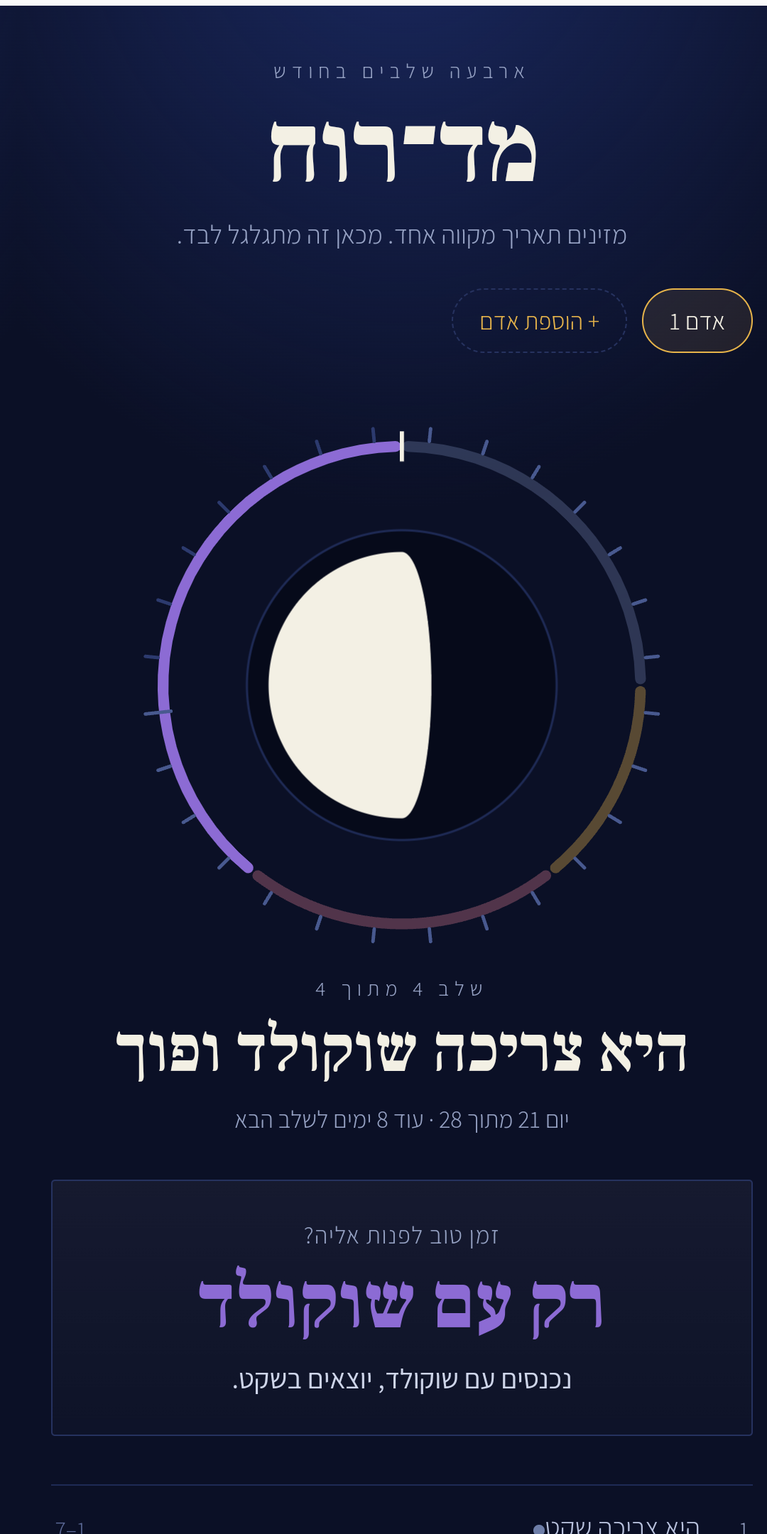
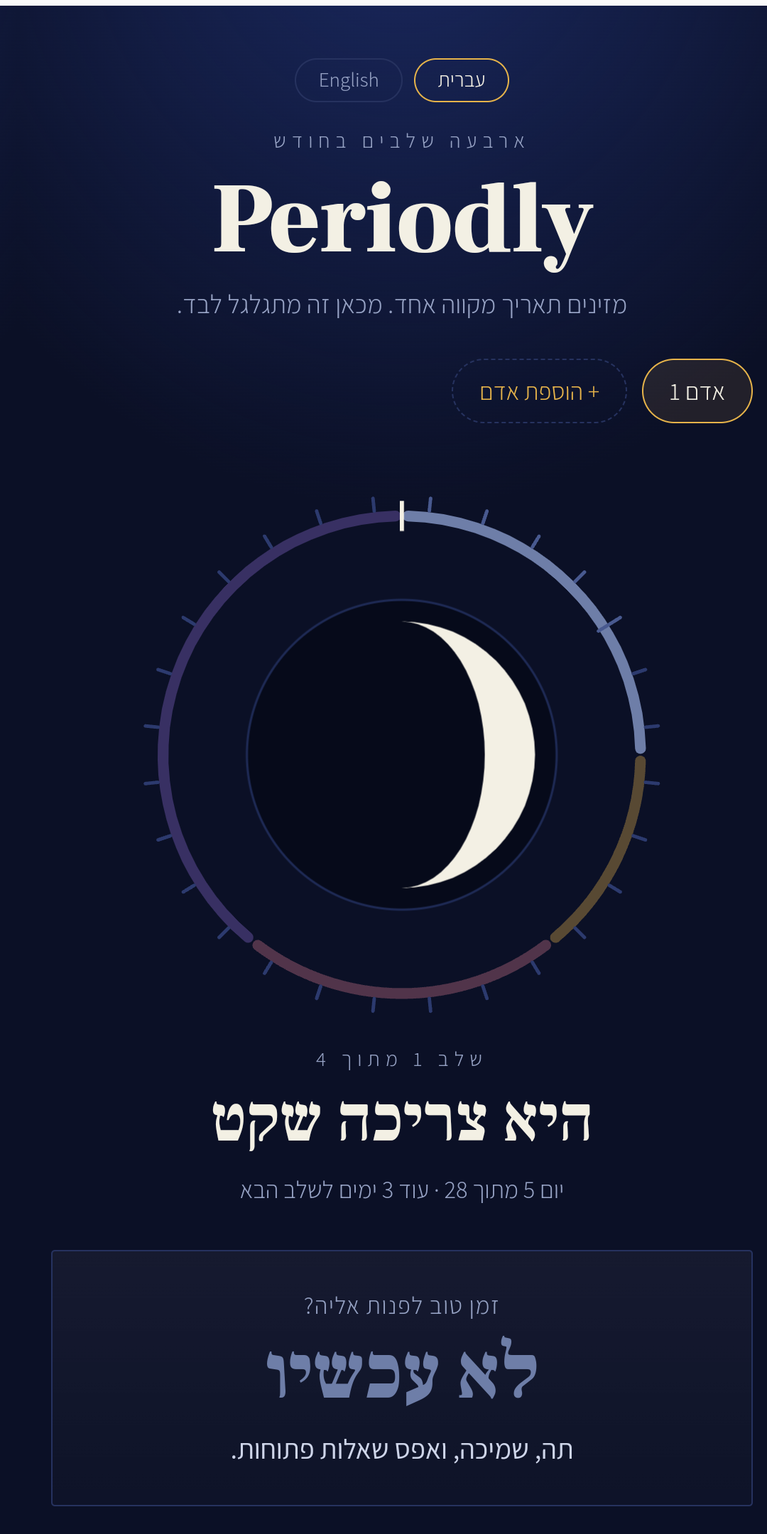
Rename app to Periodly, add Hebrew/English language toggle
Renamed across every source location (index.html title/meta/h1,
manifest.webmanifest, native capacitor.config.json, Android
strings.xml, iOS Info.plist, README, privacy.html, store listing) —
checked for every occurrence across the repo rather than assuming
which files mattered, then grepped again afterward to confirm none
were missed.

Added a full Hebrew/English UI toggle: a T[] translation dictionary
covering every user-facing string, PHASES_I18N with hand-written
(not literal) English versions of the four humor-based phase
descriptions, dynamic document dir/lang switching (rtl/ltr), and
db.lang persisted alongside the rest of the app state. The four
phase names/verdicts/tips were translated to preserve the joke, not
word-for-word.

Verified in Playwright: both languages render correctly, dir flips
to ltr with no leftover RTL artifacts (checked visually via
screenshot, not just DOM text), language choice persists across
reload, and the calendar readout recomputes correctly in the new
language instead of staying stale. Then repeated the language-switch
and rename checks against the actual native Android WebView via
direct CDP injection. Re-ran the full existing regression suite
(subscription slots, locking, XSS fix) to confirm nothing broke.

Regenerated the feature graphic (rendered through a headless browser
with the app's real fonts, not approximated) and all three store
screenshots from the actual signed release build showing the new
[…]

diff --git a/index.html b/index.html
@@ -3,14 +3,14 @@
 <head>
 <meta charset="utf-8">
 <meta name="viewport" content="width=device-width, initial-scale=1, viewport-fit=cover, maximum-scale=1">
-<title>מד־רוח</title>
+<title>Periodly</title>
 <meta name="theme-color" content="#0B1026">
 <meta name="description" content="ארבעה שלבים בחודש. שלב אחד עכשיו.">
 <link rel="manifest" href="manifest.webmanifest">
 <meta name="mobile-web-app-capable" content="yes">
 <meta name="apple-mobile-web-app-capable" content="yes">
 <meta name="apple-mobile-web-app-status-bar-style" content="black-translucent">
-<meta name="apple-mobile-web-app-title" content="מד־רוח">
+<meta name="apple-mobile-web-app-title" content="Periodly">
 <link rel="apple-touch-icon" href="icon-192.png">
 <link rel="icon" href="icon-192.png">
 <style>
@@ -45,6 +45,14 @@ body{
   padding-inline:18px;
 }
 .app{width:100%;max-width:440px}
+
+/* language switch */
+.langsw{display:flex;justify-content:center;gap:6px;margin-bottom:14px}
+.langsw button{
+  all:unset;padding:4px 12px;border:1px solid #26325F;border-radius:100px;
+  font-family:'Assistant',sans-serif;font-size:11px;color:var(--silver);cursor:pointer;
+}
+.langsw button.active{border-color:var(--amber);color:var(--moon)}
 
 /* header */
 .eyebrow{
@@ -213,9 +221,13 @@ footer{margin-top:22px;text-align:center;font-size:12px;color:#4E5C89;line-heigh
 </head>
 <body>
 <div class="app">
-  <div class="eyebrow">ארבעה שלבים בחודש</div>
-  <h1>מד־רוח</h1>
-  <p class="sub">מזינים תאריך מקווה אחד. מכאן זה מתגלגל לבד.</p>
+  <div class="langsw" id="langsw">
+    <button data-lang="he">עברית</button>
+    <button data-lang="en">English</button>
+  </div>
+  <div class="eyebrow" id="t-eyebrow">ארבעה שלבים בחודש</div>
+  <h1>Periodly</h1>
+  <p class="sub" id="t-sub">מזינים תאריך מקווה אחד. מכאן זה מתגלגל לבד.</p>
 
   <div class="profiles" id="profiles"></div>
 
@@ -236,7 +248,7 @@ footer{margin-top:22px;text-align:center;font-size:12px;color:#4E5C89;line-heigh
   </div>
 
   <div class="verdict fade">
-    <div class="q">זמן טוב לפנות אליה?</div>
+    <div class="q" id="t-verdictQ">זמן טוב לפנות אליה?</div>
     <div class="a" id="verdict"></div>
     <div class="tip" id="tip"></div>
   </div>
@@ -244,8 +256,8 @@ footer{margin-top:22px;text-align:center;font-size:12px;color:#4E5C89;line-heigh
   <div class="list" id="list"></div>
 
   <div class="calhead">
-    <h2>תחזית</h2>
-    <span>מהחודש הזה והלאה</span>
+    <h2 id="t-forecast">תחזית</h2>
+    <span id="t-forecastSub">מהחודש הזה והלאה</span>
   </div>
   <div class="readout" id="readout">בחרו יום בלוח כדי לראות מה צפוי בו.</div>
   <div id="calendar"></div>
@@ -254,26 +266,26 @@ footer{margin-top:22px;text-align:center;font-size:12px;color:#4E5C89;line-heigh
   <div class="legend" id="legend"></div>
 
   <details>
-    <summary>הגדרות</summary>
+    <summary id="t-settings">הגדרות</summary>
     <div class="panel">
-      <label for="pname">שם (אופציונלי)</label>
+      <label for="pname" id="t-nameLabel">שם (אופציונלי)</label>
       <input type="text" id="pname" placeholder="אדם 1" maxlength="20">
-      <label for="mikveh">תאריך המקווה האחרון</label>
+      <label for="mikveh" id="t-mikvehLabel">תאריך המקווה האחרון</label>
       <input type="date" id="mikveh">
-      <label for="len">אורך מחזור (ימים)</label>
+      <label for="len" id="t-lenLabel">אורך מחזור (ימים)</label>
       <input type="number" id="len" min="21" max="40">
-      <p class="hint">החישוב מניח שליל המקווה הוא היום ה־12 למחזור. אם אצלכם זה אחרת, שנו את אורך המחזור והתאריך עד שהשלב שמוצג מרגיש נכון.</p>
+      <p class="hint" id="t-hint">החישוב מניח שליל המקווה הוא היום ה־12 למחזור. אם אצלכם זה אחרת, שנו את אורך המחזור והתאריך עד שהשלב שמוצג מרגיש נכון.</p>
       <button class="danger" id="delProfile" hidden>מחיקת הפרופיל הזה</button>
     </div>
   </details>
 
-  <footer>נכתב בהומור, לא בהלכה ולא ברפואה.<br>בספק — פשוט תשאלו אותה.</footer>
+  <footer id="t-footer">נכתב בהומור, לא בהלכה ולא ברפואה.<br>בספק — פשוט תשאלו אותה.</footer>
 </div>
 
 <div class="overlay" id="paywall" hidden>
   <div class="modalcard">
-    <h3>הוספת אדם נוסף</h3>
-    <p>אדם ראשון חינם. כל אדם נוסף — מנוי חודשי מתחדש אוטומטית, 10 ₪ לחודש, לכל אדם בנפרד. ניתן לבטל בכל עת דרך הגדרות המנויים בחנות.</p>
+    <h3 id="t-paywallTitle">הוספת אדם נוסף</h3>
+    <p id="t-paywallBody">אדם ראשון חינם. כל אדם נוסף — מנוי חודשי מתחדש אוטומטית, 10 ₪ לחודש, לכל אדם בנפרד. ניתן לבטל בכל עת דרך הגדרות המנויים בחנות.</p>
     <button class="cta" id="unlockBtn">הרשמה למנוי — 10 ₪ לחודש</button>
     <button class="ghost" id="restoreBtn" hidden>שחזור רכישות קודמות</button>
     <button class="ghost" id="closePaywall">לא עכשיו</button>
@@ -282,12 +294,73 @@ footer{margin-top:22px;text-align:center;font-size:12px;color:#4E5C89;line-heigh
 </div>
 
 <script>
-const PHASES = [
-  {name:'היא צריכה שקט',      verdict:'לא עכשיו',      tip:'תה, שמיכה, ואפס שאלות פתוחות.',        color:'#6E7EA8'},
-  {name:'היא מבסוטית שיא',    verdict:'כן',            tip:'הזמן לבקש טובות ולתכנן חופשה.',        color:'#E7B44A'},
-  {name:'היא בעניין שלך מאד', verdict:'בהחלט כן',      tip:'תפנה אליה. פשוט תפנה אליה.',           color:'#D2778C'},
-  {name:'היא צריכה שוקולד ופוך', verdict:'רק עם שוקולד', tip:'נכנסים עם שוקולד, יוצאים בשקט.',    color:'#8C6BD4'}
-];
+const PHASES_I18N = {
+  he: [
+    {name:'היא צריכה שקט',         verdict:'לא עכשיו',       tip:'תה, שמיכה, ואפס שאלות פתוחות.'},
+    {name:'היא מבסוטית שיא',       verdict:'כן',             tip:'הזמן לבקש טובות ולתכנן חופשה.'},
+    {name:'היא בעניין שלך מאד',    verdict:'בהחלט כן',       tip:'תפנה אליה. פשוט תפנה אליה.'},
+    {name:'היא צריכה שוקולד ופוך', verdict:'רק עם שוקולד',   tip:'נכנסים עם שוקולד, יוצאים בשקט.'}
+  ],
+  en: [
+    {name:'She needs quiet',              verdict:'Not now',          tip:'Tea, a blanket, and zero open-ended questions.'},
+    {name:'She’s in a great mood',    verdict:'Yes',              tip:'Time to ask for favors and plan a trip.'},
+    {name:'She’s very into you',      verdict:'Absolutely yes',   tip:'Talk to her. Just talk to her.'},
+    {name:'She needs chocolate and comfort', verdict:'Only with chocolate', tip:'Walk in with chocolate, walk out quietly.'}
+  ]
+};
+const PHASE_COLORS = ['#6E7EA8','#E7B44A','#D2778C','#8C6BD4'];
+let PHASES = PHASES_I18N.he.map((p,i) => ({...p, color: PHASE_COLORS[i]}));
+
+const T = {
+  he: {
+    dir:'rtl', dateLocale:'he-IL',
+    eyebrow:'ארבעה שלבים בחודש', sub:'מזינים תאריך מקווה אחד. מכאן זה מתגלגל לבד.',
+    addPerson:'+ הוספת אדם', person:i=>'אדם ' + i,
+    stageOf:n=>`שלב ${n} מתוך 4`, dayOfLen:(d,l)=>`יום ${d} מתוך ${l}`,
+    stageChangesTomorrow:'השלב מתחלף מחר', daysToNext:n=>`עוד ${n} ימים לשלב הבא`,
+    verdictQ:'זמן טוב לפנות אליה?', forecast:'תחזית', forecastSub:'מהחודש הזה והלאה',
+    readoutPlaceholder:'בחרו יום בלוח כדי לראות מה צפוי בו.', addMonths:'להוסיף עוד 6 חודשים',
+    settings:'הגדרות', nameLabel:'שם (אופציונלי)', mikvehLabel:'תאריך המקווה האחרון',
+    lenLabel:'אורך מחזור (ימים)',
+    hint:'החישוב מניח שליל המקווה הוא היום ה־12 למחזור. אם אצלכם זה אחרת, שנו את אורך המחזור והתאריך עד שהשלב שמוצג מרגיש נכון.',
+    deleteProfile:'מחיקת הפרופיל הזה', footer:'נכתב בהומור, לא בהלכה ולא ברפואה.<br>בספק — פשוט תשאלו אותה.',
+    paywallTitle:'הוספת אדם נוסף',
+    paywallBody:'אדם ראשון חינם. כל אדם נוסף — מנוי חודשי מתחדש אוטומטית, 10 ₪ לחודש, לכל אדם בנפרד. ניתן לבטל בכל עת דרך הגדרות המנויים בחנות.',
+    subscribeBtn:'הרשמה למנוי — 10 ₪ לחודש', restoreBtn:'שחזור רכישות קודמות', notNow:'לא עכשיו',
+    paywallNoteReady:'מנוי חודשי מתחדש אוטומטית, 10 ₪ לחודש לכל אדם נוסף. אפשר לבטל בכל עת דרך הגדרות המנויים בחנות.',
+    paywallNoteTest:'מצב בדיקה: אין עדיין חיבור תשלום אמיתי (יתחבר כשהאפליקציה תיארז לחנויות) — הפתיחה כאן מקומית וללא חיוב.',
+    purchaseFailed:'הרכישה לא הושלמה. ', tryAgain:'נסו שוב מאוחר יותר.',
+    productNotConfigured:'המוצר עדיין לא הוגדר בחנות.', restoreSuccess:'הרכישות שוחזרו.', restoreFailed:'שחזור הרכישות נכשל.',
+    confirmDelete:'למחוק את הפרופיל הזה?',
+    months:['ינואר','פברואר','מרץ','אפריל','מאי','יוני','יולי','אוגוסט','ספטמבר','אוקטובר','נובמבר','דצמבר'],
+    weekdays:['א','ב','ג','ד','ה','ו','ש'], cycleDayOf:d=>`יום ${d} במחזור`
+  },
+  en: {
+    dir:'ltr', dateLocale:'en-US',
+    eyebrow:'Four stages a month', sub:'Enter one mikveh date. It figures out the rest.',
+    addPerson:'+ Add person', person:i=>'Person ' + i,
+    stageOf:n=>`Stage ${n} of 4`, dayOfLen:(d,l)=>`Day ${d} of ${l}`,
+    stageChangesTomorrow:'Stage changes tomorrow', daysToNext:n=>`${n} days to next stage`,
+    verdictQ:'Good time to reach out to her?', forecast:'Forecast', forecastSub:'From this month onward',
+    readoutPlaceholder:'Pick a day on the calendar to see what it holds.', addMonths:'Add 6 more months',
+    settings:'Settings', nameLabel:'Name (optional)', mikvehLabel:'Last mikveh date',
+    lenLabel:'Cycle length (days)',
+    hint:'The calculation assumes mikveh night is day 12 of the cycle. If yours is different, adjust the cycle length and date until the stage shown feels right.',
+    deleteProfile:'Delete this profile', footer:'Written in humor, not halacha, not medicine.<br>When in doubt — just ask her.',
+    paywallTitle:'Add another person',
+    paywallBody:'First person is free. Each additional person is an auto-renewing monthly subscription, 10 ILS/month, billed separately per person. Cancel anytime through the store’s subscription settings.',
+    subscribeBtn:'Subscribe — 10 ILS/month', restoreBtn:'Restore previous purchases', notNow:'Not now',
+    paywallNoteReady:'Auto-renewing monthly subscription, 10 ILS/month per additional person. Cancel anytime through the store’s subscription settings.',
+    paywallNoteTest:'Test mode: no real payment is wired up yet (comes once the app ships to the stores) — unlocking here is local and free.',
+    purchaseFailed:'The purchase did not go through. ', tryAgain:'Please try again later.',
+    productNotConfigured:'This product is not set up in the store yet.', restoreSuccess:'Purchases restored.', restoreFailed:'Restoring purchases failed.',
+    confirmDelete:'Delete this profile?',
+    months:['January','February','March','April','May','June','July','August','September','October','November','December'],
+    weekdays:['Sun','Mon','Tue','Wed','Thu','Fri','Sat'], cycleDayOf:d=>`day ${d} of cycle`
+  }
+};
+let uiLang = 'he';
+
 const MIKVEH_DAY = 12;
 const FREE_PROFILE_LIMIT = 1;
 
@@ -387,14 +460,14 @@ function render(){
   const idx = day <= b[0] ? 0 : day <= b[1] ? 1 : day <= b[2] ? 2 : 3;
   const p = PHASES[idx];
 
-  $('phaseNum').textContent = `שלב ${idx + 1} מתוך 4`;
+  $('phaseNum').textContent = T[uiLang].stageOf(idx + 1);
   $('phaseName').textContent = p.name;
   $('verdict').textContent = p.verdict;
   $('verdict').style.color = p.color;
   $('tip').textContent = p.tip;
 
   const left = b[idx] - day + 1;
-  $('dayCount').textContent = `יום ${day} מתוך ${L} · ${left === 1 ? 'השלב מתחלף מחר' : 'עוד ' + left + ' ימים לשלב הבא'}`;
+  $('dayCount').textContent = `${T[uiLang].dayOfLen(day, L)} · ${left === 1 ? T[uiLang].stageChangesTomorrow : T[uiLang].daysToNext(left)}`;
 
   // ticks
   const ticks = b_ticks(L, day);
@@ -438,8 +511,6 @@ function b_ticks(L, day){
 }
 
 /* ---------- forecast calendar ---------- */
-const MONTHS = ['ינואר','פברואר','מרץ','אפריל','מאי','יוני','יולי','אוגוסט','ספטמבר','אוקטובר','נובמבר','דצמבר'];
-const WD = ['א','ב','ג','ד','ה','ו','ש'];
 let monthsShown = 12, selected = '';
 
 function cycleStart(){
@@ -468,8 +539,8 @@ function renderCalendar(){
   for (let m = 0; m < monthsShown; m++){
     const d0 = new Date(first.getFullYear(), first.getMonth() + m, 1);
     const dim = new Date(d0.getFullYear(), d0.getMonth() + 1, 0).getDate();
-    html += `<div class="month"><h3>${MONTHS[d0.getMonth()]} ${d0.getFullYear()}</h3>
-      <div class="wd">${WD.map(w => `<span>${w}</span>`).join('')}</div><div class="grid">`;
+    html += `<div class="month"><h3>${T[uiLang].months[d0.getMonth()]} ${d0.getFullYear()}</h3>
+      <div class="wd">${T[uiLang].weekdays.map(w => `<span>${w}</span>`).join('')}</div><div class="grid">`;
     for (let i = 0; i < d0.getDay(); i++) html += '<button class="pad" tabindex="-1"></button>';
     for (let day = 1; day <= dim; day++){
       const dt = new Date(d0.getFullYear(), d0.getMonth(), day);
@@ -488,15 +559,20 @@ function renderCalendar(){
     `<div><i style="background:${rgba(p.color, .55)}"></i>${i + 1}. ${p.name}</div>`).join('');
 }
 
-$('calendar').addEventListener('click', e => {
-  const btn = e.target.closest('button[data-k]');
-  if (!btn) return;
-  selected = btn.dataset.k;
+function renderReadout(){
+  if (!selected){ $('readout').textContent = T[uiLang].readoutPlaceholder; return; }
   const [y, m, d] = selected.split('-').map(Number);
   const dt = new Date(y, m, d);
   const p = PHASES[phaseOf(dt)];
   $('readout').innerHTML =
-    `<b>${dt.toLocaleDateString('he-IL', {weekday:'long', day:'numeric', month:'long'})}</b> · יום ${dayOf(dt)} במחזור · ${p.name} · <b style="color:${p.color}">${p.verdict}</b>`;
+    `<b>${dt.toLocaleDateString(T[uiLang].dateLocale, {weekday:'long', day:'numeric', month:'long'})}</b> · ${T[uiLang].cycleDayOf(dayOf(dt))} · ${p.name} · <b style="color:${p.color}">${p.verdict}</b>`;
+}
+
+$('calendar').addEventListener('click', e => {
+  const btn = e.target.closest('button[data-k]');
+  if (!btn) return;
+  selected = btn.dataset.k;
+  renderReadout();
   renderCalendar();
 });
 
@@ -541,10 +617,46 @@ async function load(){
   }
   if (!db.profiles.find(p => p.id === db.activeId)) db.activeId = db.profiles[0].id;
   enforceActiveWithinAllowed();
+  applyLang(db.lang || 'he');
+}
+
+function applyLang(lang){
+  uiLang = lang;
+  db.lang = lang;
+  PHASES = PHASES_I18N[lang].map((p,i) => ({...p, color: PHASE_COLORS[i]}));
+  document.documentElement.lang = lang;
+  document.documentElement.dir = T[lang].dir;
+  $('t-eyebrow').textContent = T[lang].eyebrow;
+  $('t-sub').textContent = T[lang].sub;
+  $('t-verdictQ').textContent = T[lang].verdictQ;
+  $('t-forecast').textContent = T[lang].forecast;
+  $('t-forecastSub').textContent = T[lang].forecastSub;
+  $('t-settings').textContent = T[lang].settings;
+  $('t-nameLabel').textContent = T[lang].nameLabel;
+  $('t-mikvehLabel').textContent = T[lang].mikvehLabel;
+  $('t-lenLabel').textContent = T[lang].lenLabel;
+  $('t-hint').textContent = T[lang].hint;
+  $('t-footer').innerHTML = T[lang].footer;
+  $('t-paywallTitle').textContent = T[lang].paywallTitle;
+  $('t-paywallBody').textContent = T[lang].paywallBody;
+  $('unlockBtn').textContent = T[lang].subscribeBtn;
+  $('restoreBtn').textContent = T[lang].restoreBtn;
+  $('closePaywall').textContent = T[lang].notNow;
+  $('more').textContent = T[lang].addMonths;
+  $('pname').placeholder = T[lang].person(1);
+  document.querySelectorAll('#langsw button').forEach(b => b.classList.toggle('active', b.dataset.lang === lang));
   renderProfiles();
   syncSettingsForm();
+  renderReadout();
   render();
 }
+
+$('langsw').addEventListener('click', e => {
+  const btn = e.target.closest('button[data-lang]');
+  if (!btn || btn.dataset.lang === uiLang) return;
+  applyLang(btn.dataset.lang);
+  save();
+});
 
 function syncSettingsForm(){
   const p = active();
@@ -557,10 +669,10 @@ function renderProfiles(){
   const allowed = allowedProfiles();
   const pills = db.profiles.map((p,i) => {
     const locked = i >= allowed;
-    const label = escapeHtml(p.name) || 'אדם ' + (i+1);
+    const label = escapeHtml(p.name) || T[uiLang].person(i+1);
     return `<button class="pill ${p.id===db.activeId?'active':''} ${locked?'locked':''}" data-id="${p.id}" ${locked?'data-locked="1"':''}>${locked?'🔒 ':''}${label}</button>`;
   }).join('');
-  const addPill = db.profiles.length < MAX_TOTAL_PROFILES ? `<button class="pill add" id="addProfile">+ הוספת אדם</button>` : '';
+  const addPill = db.profiles.length < MAX_TOTAL_PROFILES ? `<button class="pill add" id="addProfile">${T[uiLang].addPerson}</button>` : '';
   $('profiles').innerHTML = pills + addPill;
   if ($('addProfile')) $('addProfile').addEventListener('click', onAddProfile);
   $('delProfile').hidden = db.profiles.length <= 1;
@@ -596,8 +708,8 @@ function openPaywall(){
   $('unlockBtn').disabled = false;
   $('restoreBtn').hidden = !(isNative() && purchasesReady);
   $('paywallNote').textContent = (isNative() && purchasesReady)
-    ? 'מנוי חודשי מתחדש אוטומטית, 10 ₪ לחודש לכל אדם נוסף. אפשר לבטל בכל עת דרך הגדרות המנויים בחנות.'
-    : 'מצב בדיקה: אין עדיין חיבור תשלום אמיתי (יתחבר כשהאפליקציה תיארז לחנויות) — הפתיחה כאן מקומית וללא חיוב.';
+    ? T[uiLang].paywallNoteReady
+    : T[uiLang].paywallNoteTest;
 }
 
 $('unlockBtn').addEventListener('click', async () => {
@@ -608,13 +720,13 @@ $('unlockBtn').addEventListener('click', async () => {
       const offerings = await Purchases().getOfferings();
       const pkgs = (offerings.current && offerings.current.availablePackages) || [];
       const pkg = pkgs.find(p => p.storeProduct.identifier === productId);
-      if (!pkg) throw new Error('המוצר עדיין לא הוגדר בחנות.');
+      if (!pkg) throw new Error(T[uiLang].productNotConfigured);
       const { customerInfo } = await Purchases().purchasePackage({ aPackage: pkg });
       db.activeSlots = countActiveSlots(customerInfo); save();
       $('paywall').hidden = true;
       addProfileNow();
     } catch(e){
-      if (!(e && e.userCancelled)) alert('הרכישה לא הושלמה. ' + (e && e.message ? e.message : 'נסו שוב מאוחר יותר.'));
+      if (!(e && e.userCancelled)) alert(T[uiLang].purchaseFailed + (e && e.message ? e.message : T[uiLang].tryAgain));
     } finally { $('unlockBtn').disabled = false; }
   } else {
     db.activeSlots = (db.activeSlots || 0) + 1; save();
@@ -627,14 +739,14 @@ $('restoreBtn').addEventListener('click', async () => {
     const { customerInfo } = await Purchases().restorePurchases();
     db.activeSlots = countActiveSlots(customerInfo); save();
     enforceActiveWithinAllowed(); renderProfiles(); syncSettingsForm(); render();
-    alert('הרכישות שוחזרו.');
-  } catch(e){ alert('שחזור הרכישות נכשל.'); }
+    alert(T[uiLang].restoreSuccess);
+  } catch(e){ alert(T[uiLang].restoreFailed); }
 });
 $('closePaywall').addEventListener('click', () => { $('paywall').hidden = true; });
 
 $('delProfile').addEventListener('click', () => {
   if (db.profiles.length <= 1) return;
-  if (!confirm('למחוק את הפרופיל הזה?')) return;
+  if (!confirm(T[uiLang].confirmDelete)) return;
   db.profiles = db.profiles.filter(p => p.id !== db.activeId);
   db.activeId = db.profiles[0].id;
   save(); renderProfiles(); syncSettingsForm(); render();

diff --git a/privacy.html b/privacy.html
@@ -3,7 +3,7 @@
 <head>
 <meta charset="utf-8">
 <meta name="viewport" content="width=device-width, initial-scale=1">
-<title>מדיניות פרטיות — מד־רוח</title>
+<title>מדיניות פרטיות — Periodly</title>
 <style>
 body{font-family:-apple-system,'Segoe UI',Assistant,sans-serif;max-width:640px;margin:0 auto;padding:32px 20px 60px;background:#0B1026;color:#F3F0E4;line-height:1.7}
 h1{font-size:26px;margin-bottom:4px}
@@ -15,7 +15,7 @@ a{color:#E7B44A}
 </style>
 </head>
 <body>
-<h1>מדיניות פרטיות — מד־רוח</h1>
+<h1>מדיניות פרטיות — Periodly</h1>
 <div class="updated">עודכן לאחרונה: 26 בספטמבר 2026</div>
 
 <h2>מה האפליקציה שומרת</h2>

diff --git a/sw.js b/sw.js
@@ -1,4 +1,4 @@
-const CACHE = 'mad-ruach-v5';
+const CACHE = 'mad-ruach-v6';
 const ASSETS = ['./', './index.html', './manifest.webmanifest', './icon-192.png', './icon-512.png'];
 
 self.addEventListener('install', e => {

diff --git a/native/store-assets/listing-he.md b/native/store-assets/listing-he.md
@@ -1,13 +1,13 @@
 # טקסט לדף החנות — Google Play (עברית)
 
 ## שם האפליקציה (עד 30 תווים)
-מד־רוח
+Periodly
 
 ## תיאור קצר (עד 80 תווים)
 מעקב מחזור בפשטות — שלב אחד ברור ליום. הכל נשמר על המכשיר שלכם בלבד.
 
 ## תיאור מלא (עד 4000 תווים)
-מד־רוח מציג את החודש בארבעה שלבים פשוטים, ומראה תמיד באיזה שלב אתם נמצאים היום — בלי טבלאות, בלי מינוחים רפואיים.
+Periodly מציג את החודש בארבעה שלבים פשוטים, ומראה תמיד באיזה שלב אתם נמצאים היום — בלי טבלאות, בלי מינוחים רפואיים.
 
 איך זה עובד
 מזינים תאריך מקווה אחד ואורך מחזור, והאפליקציה מחשבת לבד את השלב הנוכחי, כמה ימים נשארו לשלב הבא, ותחזית קדימה על גבי לוח שנה מלא.

diff --git a/README.md b/README.md
@@ -1,4 +1,4 @@
-# מד־רוח — אפליקציה לפלאפון
+# Periodly — אפליקציה לפלאפון
 
 אפליקציית PWA: מתקינים למסך הבית, נפתחת במסך מלא בלי שורת דפדפן, ועובדת גם בלי אינטרנט.
 
